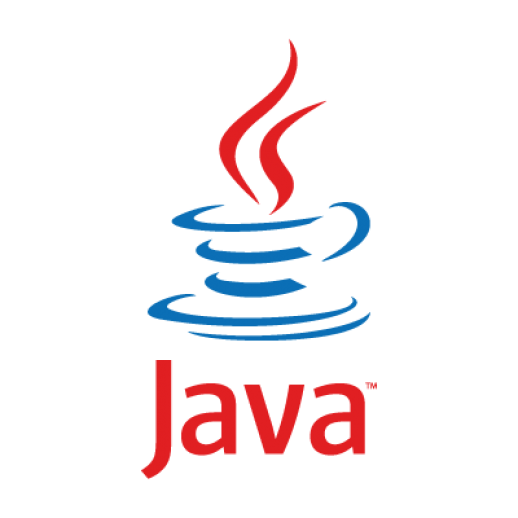
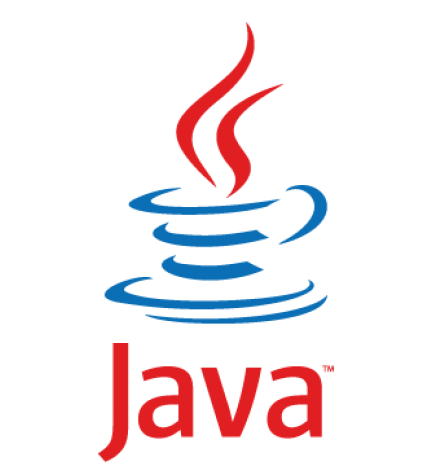
Update images

Changed region(s): [[0.2419, 0.0591, 0.786, 0.7089], [0.2116, 0.6793, 0.786, 0.9747]]

diff --git a/src/util/TechStack.js b/src/util/TechStack.js
@@ -10,15 +10,15 @@ import javafx from '../images/javafx.png';
 import nodejs from '../images/nodejs-icon.svg';
 import c from '../images/C.svg';
 
-export const reactIcon = { icon: react, name: 'React' };
-export const jsIcon = { icon: javascript, name: 'JavaScript' };
-export const firebaseIcon = { icon: firebase, name: 'Firebase' };
-export const javaIcon = { icon: java, name: 'Java' };
-export const pythonIcon = { icon: python, name: 'Python' };
-export const cssIcon = { icon: css, name: 'CSS' };
-export const htmlIcon = { icon: html, name: 'HTML' };
-export const adobeXdIcon = { icon: adobexd, name: 'Adobe XD' };
+export const reactIcon = { icon: react, name: 'React', width: '2em' };
+export const jsIcon = { icon: javascript, name: 'JavaScript', width: '1.9em' };
+export const firebaseIcon = { icon: firebase, name: 'Firebase', width: '2em' };
+export const javaIcon = { icon: java, name: 'Java', width: '2.2em' };
+export const pythonIcon = { icon: python, name: 'Python', width: '2.2em' };
+export const cssIcon = { icon: css, name: 'CSS', width: '2em' };
+export const htmlIcon = { icon: html, name: 'HTML', width: '2em' };
+export const adobeXdIcon = { icon: adobexd, name: 'Adobe XD', width: '1.9em' };
 
-export const javaFxIcon = { icon: javafx, name: 'JavaFX' };
-export const nodeJsIcon = { icon: nodejs, name: 'NodeJS' };
-export const cIcon = { icon: c, name: 'C' };
+export const javaFxIcon = { icon: javafx, name: 'JavaFX', width: '3em' };
+export const nodeJsIcon = { icon: nodejs, name: 'Node.js', width: '1.9em' };
+export const cIcon = { icon: c, name: 'C', width: '2em' };
